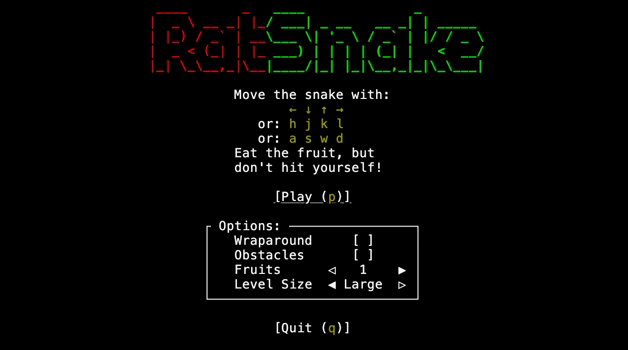
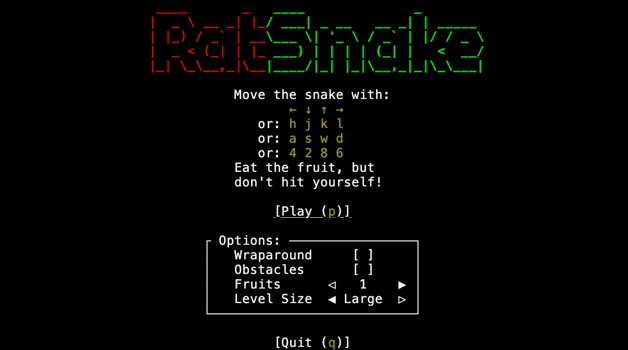
Update README

diff --git a/README.md b/README.md
@@ -32,8 +32,9 @@ terminal is bigger than this, the interface will be centered in the middle.  If
 your terminal is smaller, you're going to have a bad time.
 
 All screens in `ratsnake` support directional movement with the arrow keys,
-<kbd>h</kbd>/<kbd>j</kbd>/<kbd>k</kbd>/<kbd>l</kbd>, and
-<kbd>w</kbd>/<kbd>a</kbd>/<kbd>s</kbd>/<kbd>d</kbd>.  In addition, pressing
+<kbd>h</kbd>/<kbd>j</kbd>/<kbd>k</kbd>/<kbd>l</kbd>,
+<kbd>w</kbd>/<kbd>a</kbd>/<kbd>s</kbd>/<kbd>d</kbd>, and
+<kbd>2</kbd>/<kbd>4</kbd>/<kbd>6</kbd>/<kbd>8</kbd>.  In addition, pressing
 <kbd>Ctrl</kbd>+<kbd>C</kbd> at any point during program execution will
 immediately end the program.
 
@@ -64,20 +65,20 @@ The following options can be set:
 
 ### Key Bindings
 
-| Key                                          | Command                                                |
-| -------------------------------------------- | ------------------------------------------------------ |
-| <kbd>k</kbd>, <kbd>w</kbd>, <kbd>Up</kbd>    | Move up an item                                        |
-| <kbd>j</kbd>, <kbd>s</kbd>, <kbd>Down</kbd>  | Move down an item                                      |
-| <kbd>h</kbd>, <kbd>a</kbd>, <kbd>Left</kbd>  | Decrease or unset the current option                   |
-| <kbd>l</kbd>, <kbd>d</kbd>, <kbd>Right</kbd> | Increase or set the current option                     |
-| <kbd>Tab</kbd>                               | Move down an item, circling around at the bottom       |
-| <kbd>Shift</kbd>+<kbd>Tab</kbd>              | Move up an item, circling around at the top            |
-| <kbd>Home</kbd>                              | Jump to the first item in the menu                     |
-| <kbd>End</kbd>                               | Jump to the last item in the menu                      |
-| <kbd>Space</kbd>                             | Toggle the current option                              |
-| <kbd>Enter</kbd>                             | Toggle the current option or select the current button |
-| <kbd>p</kbd>                                 | Play a game of Snake                                   |
-| <kbd>q</kbd>                                 | Quit                                                   |
+| Key                                                        | Command                                                |
+| ---------------------------------------------------------- | ------------------------------------------------------ |
+| <kbd>k</kbd>, <kbd>w</kbd>, <kbd>8</kbd>, <kbd>Up</kbd>    | Move up an item                                        |
+| <kbd>j</kbd>, <kbd>s</kbd>, <kbd>2</kbd>, <kbd>Down</kbd>  | Move down an item                                      |
+| <kbd>h</kbd>, <kbd>a</kbd>, <kbd>4</kbd>, <kbd>Left</kbd>  | Decrease or unset the current option                   |
+| <kbd>l</kbd>, <kbd>d</kbd>, <kbd>6</kbd>, <kbd>Right</kbd> | Increase or set the current option                     |
+| <kbd>Tab</kbd>                                             | Move down an item, circling around at the bottom       |
+| <kbd>Shift</kbd>+<kbd>Tab</kbd>                            | Move up an item, circling around at the top            |
+| <kbd>Home</kbd>                                            | Jump to the first item in the menu                     |
+| <kbd>End</kbd>                                             | Jump to the last item in the menu                      |
+| <kbd>Space</kbd>                                           | Toggle the current option                              |
+| <kbd>Enter</kbd>                                           | Toggle the current option or select the current button |
+| <kbd>p</kbd>                                               | Play a game of Snake                                   |
+| <kbd>q</kbd>                                               | Quit                                                   |
 
 Game
 ----
